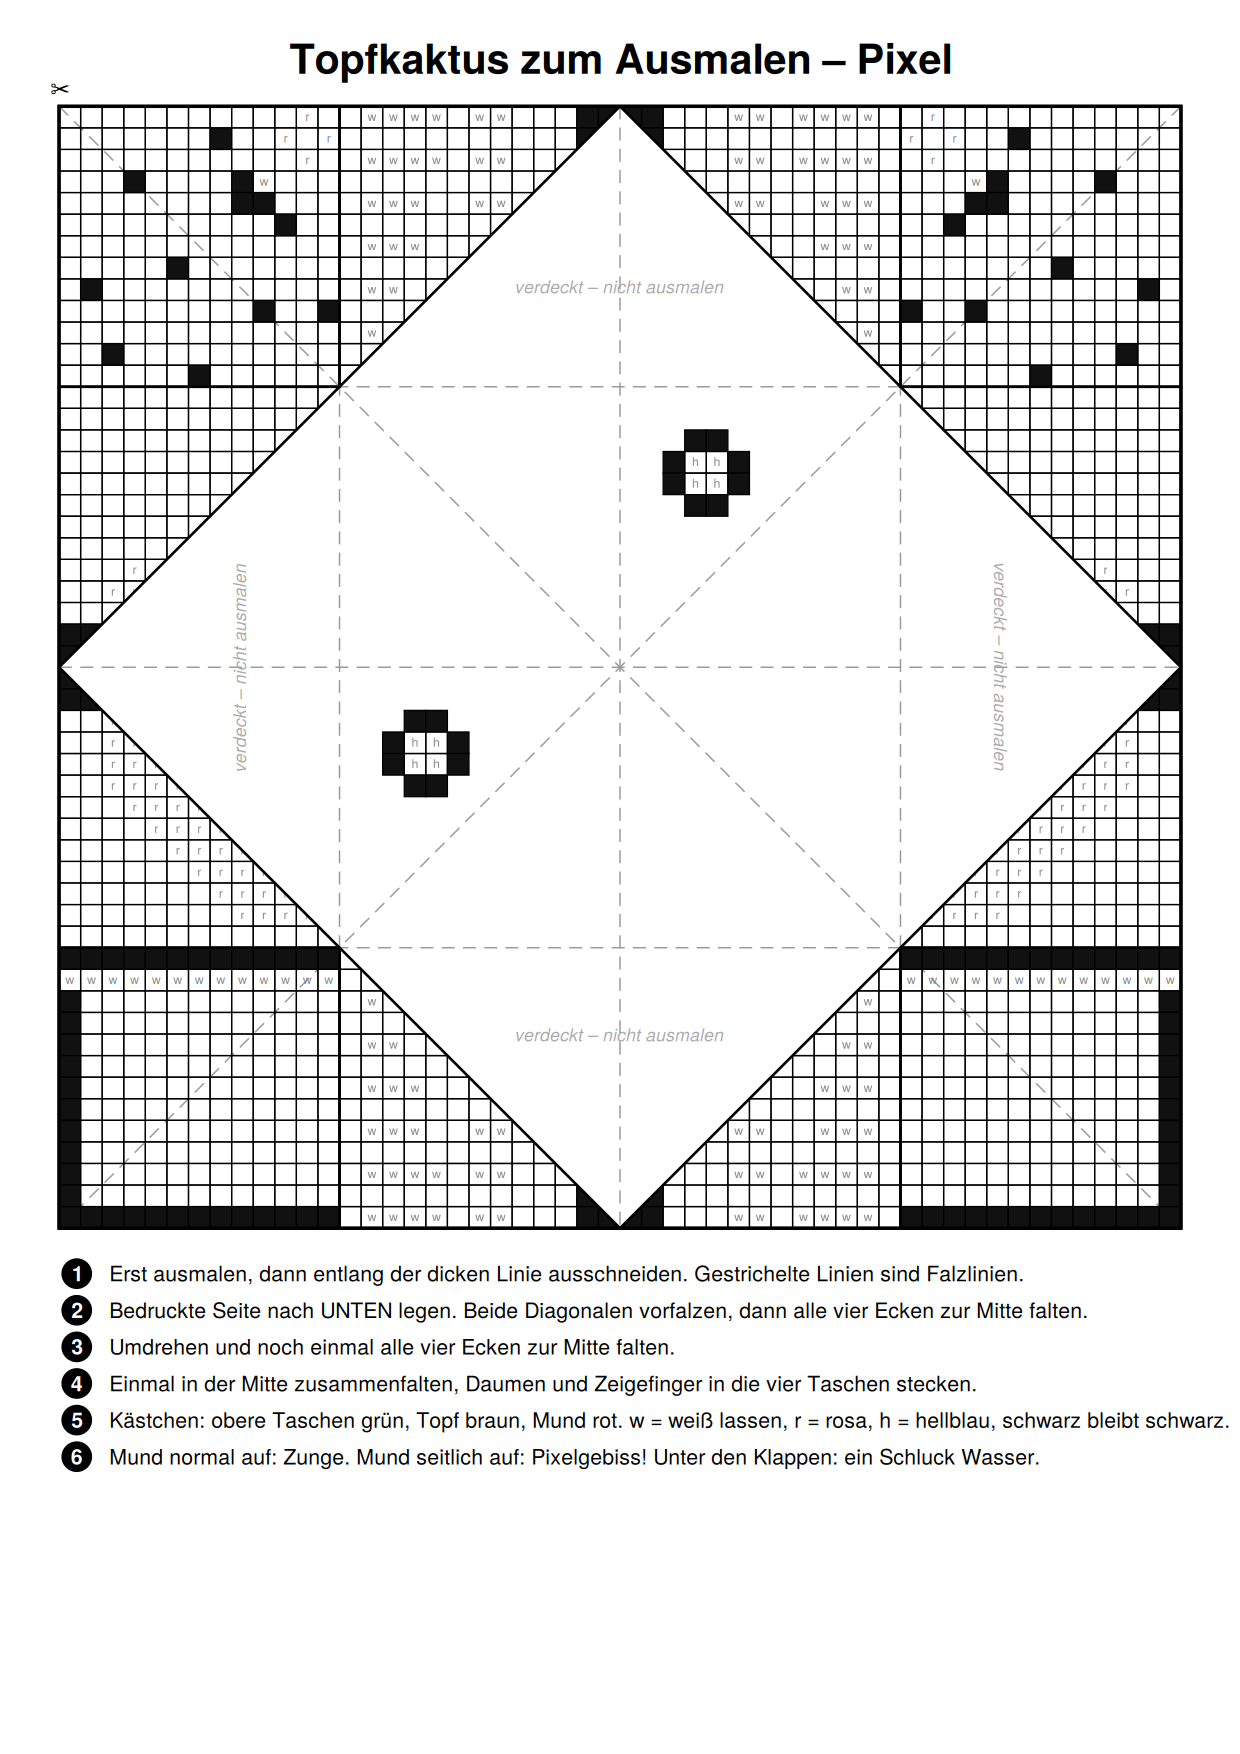
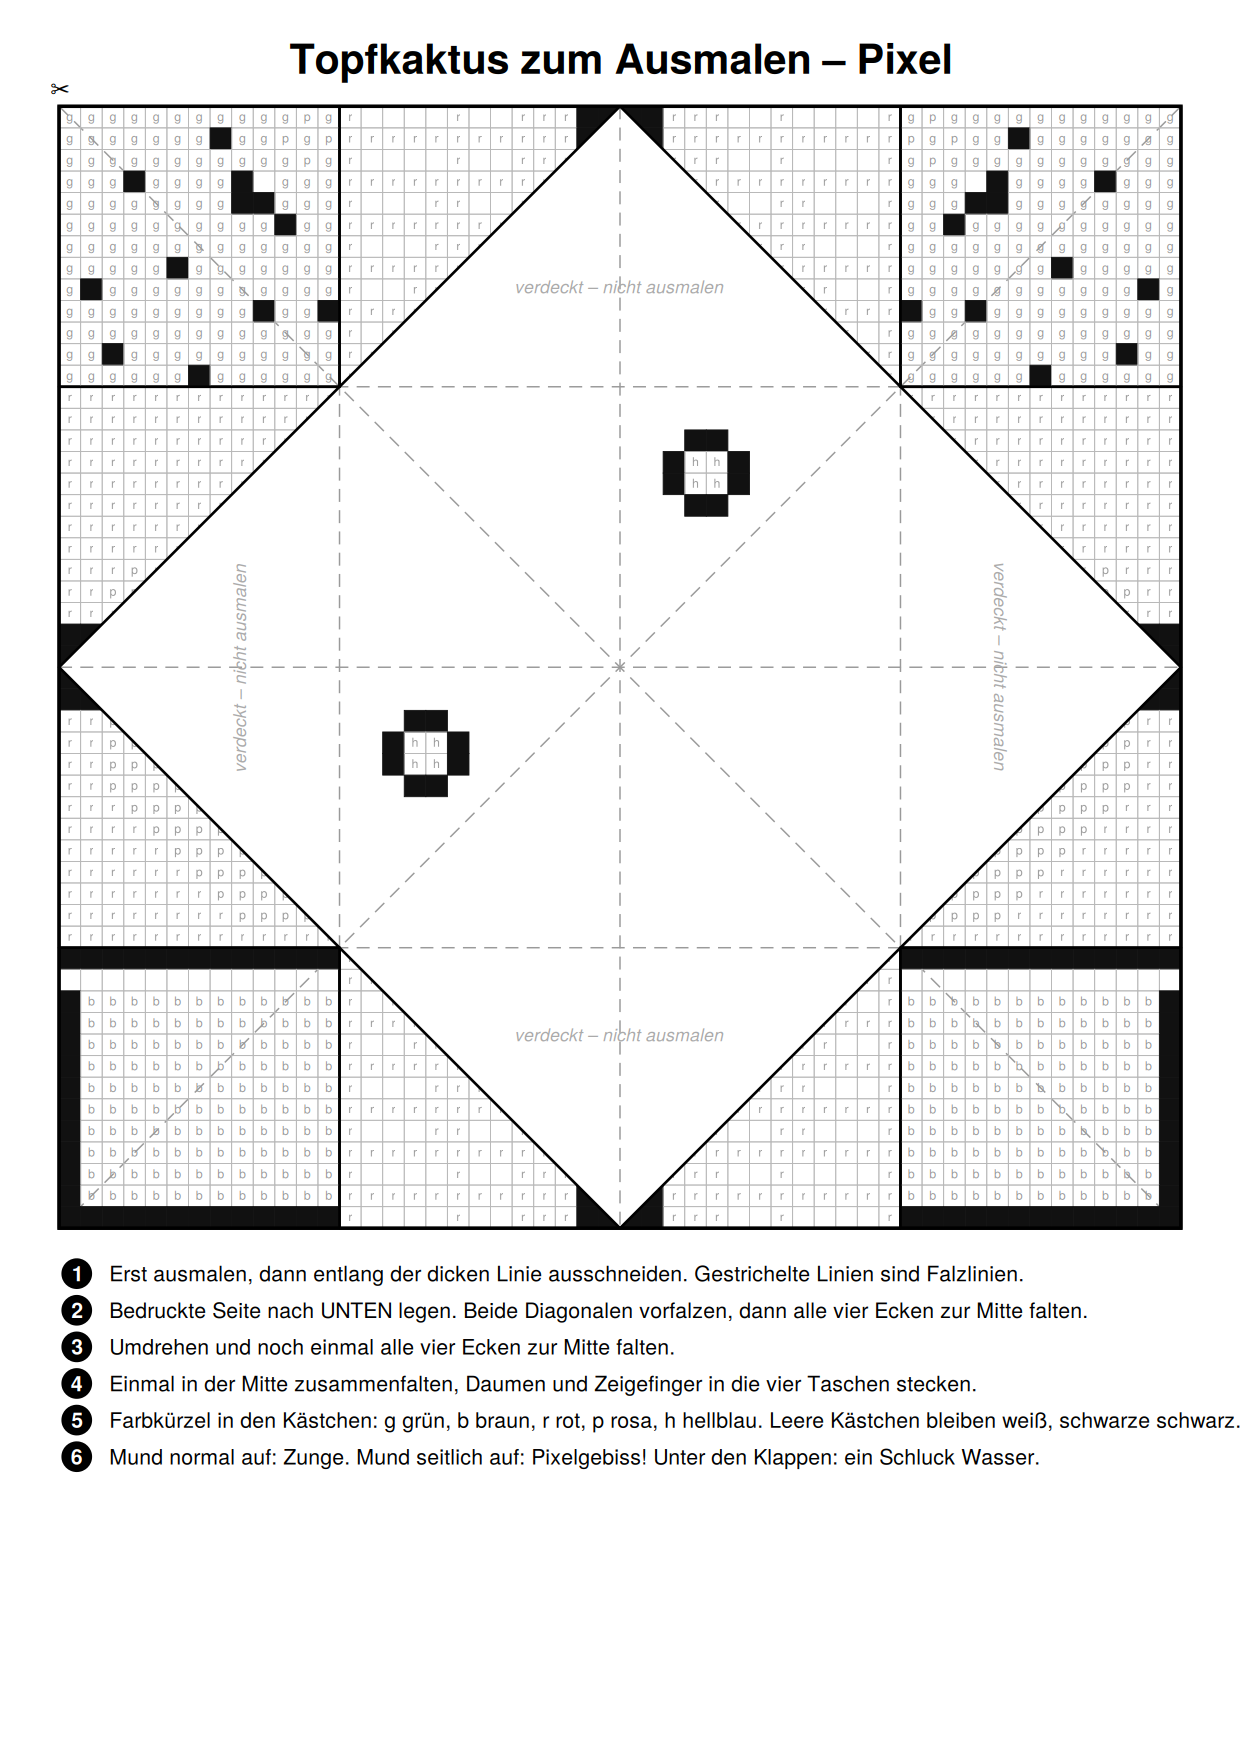
Kaktus: Farbkürzel grau in jedem Kästchen, Weiß leer, Raster hellgrau
Claude-Session: https://claude.ai/code/session_01X3rWt2Fnqfe8kmvvCTH6eF

diff --git a/motiv_kaktus.py b/motiv_kaktus.py
@@ -3,9 +3,8 @@ Motiv: Topfkaktus in Pixel-Optik – der Kaktus aus dem Karopapier-Tierchen
 (minis/tierchen) als Faltmund. Alles liegt auf einem Karoraster von 13 Kästchen
 je Eckquadrat (52 × 52 auf dem Blatt), jedes Kästchen wird einzeln ausgemalt.
 
-Farbcode je Zone (steht auch als Legende auf dem Blatt):
-  Haut (obere Taschen) grün, Topf (untere Taschen) braun, Mundinneres rot.
-  Buchstaben: w = weiß lassen, r = rosa, h = hellblau.  Schwarze Kästchen bleiben schwarz.
+Jedes Kästchen trägt sein Farbkürzel in Grau: g grün, b braun, r rot, p rosa, h hellblau.
+Weiße Kästchen sind leer, schwarze sind gefüllt. Das Raster ist nur hellgrau angedeutet.
 
 Aufruf:  python3 motiv_kaktus.py   →  kaktus.svg / .pdf / .png
 """
@@ -14,9 +13,9 @@ from faltmund import render, save, inside, ANLEITUNG_STANDARD
 N = 52                      # Kästchen je Blattkante (13 je Eckquadrat)
 C = 1.0 / N                 # Kästchengröße in Papier-Einheiten (≈ 3,7 mm bei 19 cm)
 
-CELL = 'fill="none" stroke="#000" stroke-width="0.22"'
-CELL_BLACK = 'fill="#111" stroke="#000" stroke-width="0.22"'
-LETTER = 'fill="#888"'
+CELL = 'fill="none" stroke="#b8b8b8" stroke-width="0.15"'
+CELL_BLACK = 'fill="#111" stroke="#111" stroke-width="0.15"'
+LETTER = 'fill="#9a9a9a"'
 
 
 def cell_center(i, j):
@@ -24,10 +23,10 @@ def cell_center(i, j):
 
 
 def pixel(pg, i, j, code):
-    """Ein Kästchen zeichnen. code: '.' = Zonenfarbe (leer), '#' = schwarz, sonst Buchstabe."""
+    """Ein Kästchen zeichnen. code: '#' = schwarz gefüllt, 'w' = weiß (leer), sonst Farbkürzel in Grau."""
     x, y = i * C, j * C
     pg.polyline([(x, y), (x + C, y), (x + C, y + C), (x, y + C)], CELL_BLACK if code == "#" else CELL, close=True)
-    if code not in (".", "#"):
+    if code not in ("w", "#"):
         cx, cy = cell_center(i, j)
         pg.text((cx, cy + 0.0035), code, size=2.1, style=LETTER, anchor="middle")
 
@@ -42,14 +41,14 @@ def raster(pg, poly, code_fn):
 
 # ---------------------------------------------------------------- Zonenmuster
 STACHELN = {(3, 3), (7, 1), (10, 5), (1, 8), (5, 7), (9, 9), (2, 11), (12, 9), (6, 12), (11, 2)}
-BLUME = {(11, 0): "r", (10, 1): "r", (12, 1): "r", (11, 2): "r", (11, 1): "."}       # [.P. / PBP / .P.] an der Schnauzenspitze
+BLUME = {(11, 0): "p", (10, 1): "p", (12, 1): "p", (11, 2): "p", (11, 1): "g"}       # [.P. / PBP / .P.] an der Schnauzenspitze
 AUGE = {(8, 3): "#", (9, 3): "w", (8, 4): "#", (9, 4): "#"}                            # 2×2 mit Glanzpunkt
 
 
 class Kaktus:
     titel = "Topfkaktus zum Ausmalen – Pixel"
     anleitung = ANLEITUNG_STANDARD + [
-        "Kästchen: obere Taschen grün, Topf braun, Mund rot. w = weiß lassen, r = rosa, h = hellblau, schwarz bleibt schwarz.",
+        "Farbkürzel in den Kästchen: g grün, b braun, r rot, p rosa, h hellblau. Leere Kästchen bleiben weiß, schwarze schwarz.",
         "Mund normal auf: Zunge. Mund seitlich auf: Pixelgebiss! Unter den Klappen: ein Schluck Wasser.",
     ]
 
@@ -65,12 +64,12 @@ class Kaktus:
             if oben:
                 if (x, y) in BLUME: return BLUME[(x, y)]
                 if (x, y) in AUGE: return AUGE[(x, y)]
-                return "#" if (x, y) in STACHELN else "."
+                return "#" if (x, y) in STACHELN else "g"
             # Topf: Rand als schwarze Reihe zur Lippe hin, darunter ein heller Streifen
             if y == 12: return "#"
             if y == 11: return "w"
             if y == 0 or x == 0: return "#"              # Topfboden / Außenkante
-            return "."
+            return "b"
         raster(pg, pk.poly, code)
 
     # --- Klappen: Kästchen in (s, d) = entlang der Lippe / Tiefe ins Dreieck (wie fl.L, ganzzahlig).
@@ -96,14 +95,14 @@ class Kaktus:
             for s in (0, 2, 4):                                                # hintere Reihe
                 for d in (6, 7): marken[(s, d)] = "w"
         elif fl.kiefer == "oben":                                            # Gaumen: Zäpfchen an der Naht
-            for c in an_der_naht(3, 2): marken[c] = "r"
+            for c in an_der_naht(3, 2): marken[c] = "p"
         else:                                                                # Zunge an der Naht
             for k, breite in ((2, 1), (3, 2), (4, 3), (5, 4), (6, 4), (7, 4), (8, 4), (9, 3), (10, 2), (11, 1)):
-                for c in an_der_naht(k, breite): marken[c] = "r"
+                for c in an_der_naht(k, breite): marken[c] = "p"
 
         def code(i, j):
             if rachen_nah(i, j): return "#"
-            return marken.get(sd(i, j), ".")
+            return marken.get(sd(i, j), "r")
         raster(pg, fl.poly, code)
 
     # --- unter den Klappen: Schluck Wasser (Futter des Kaktus)
